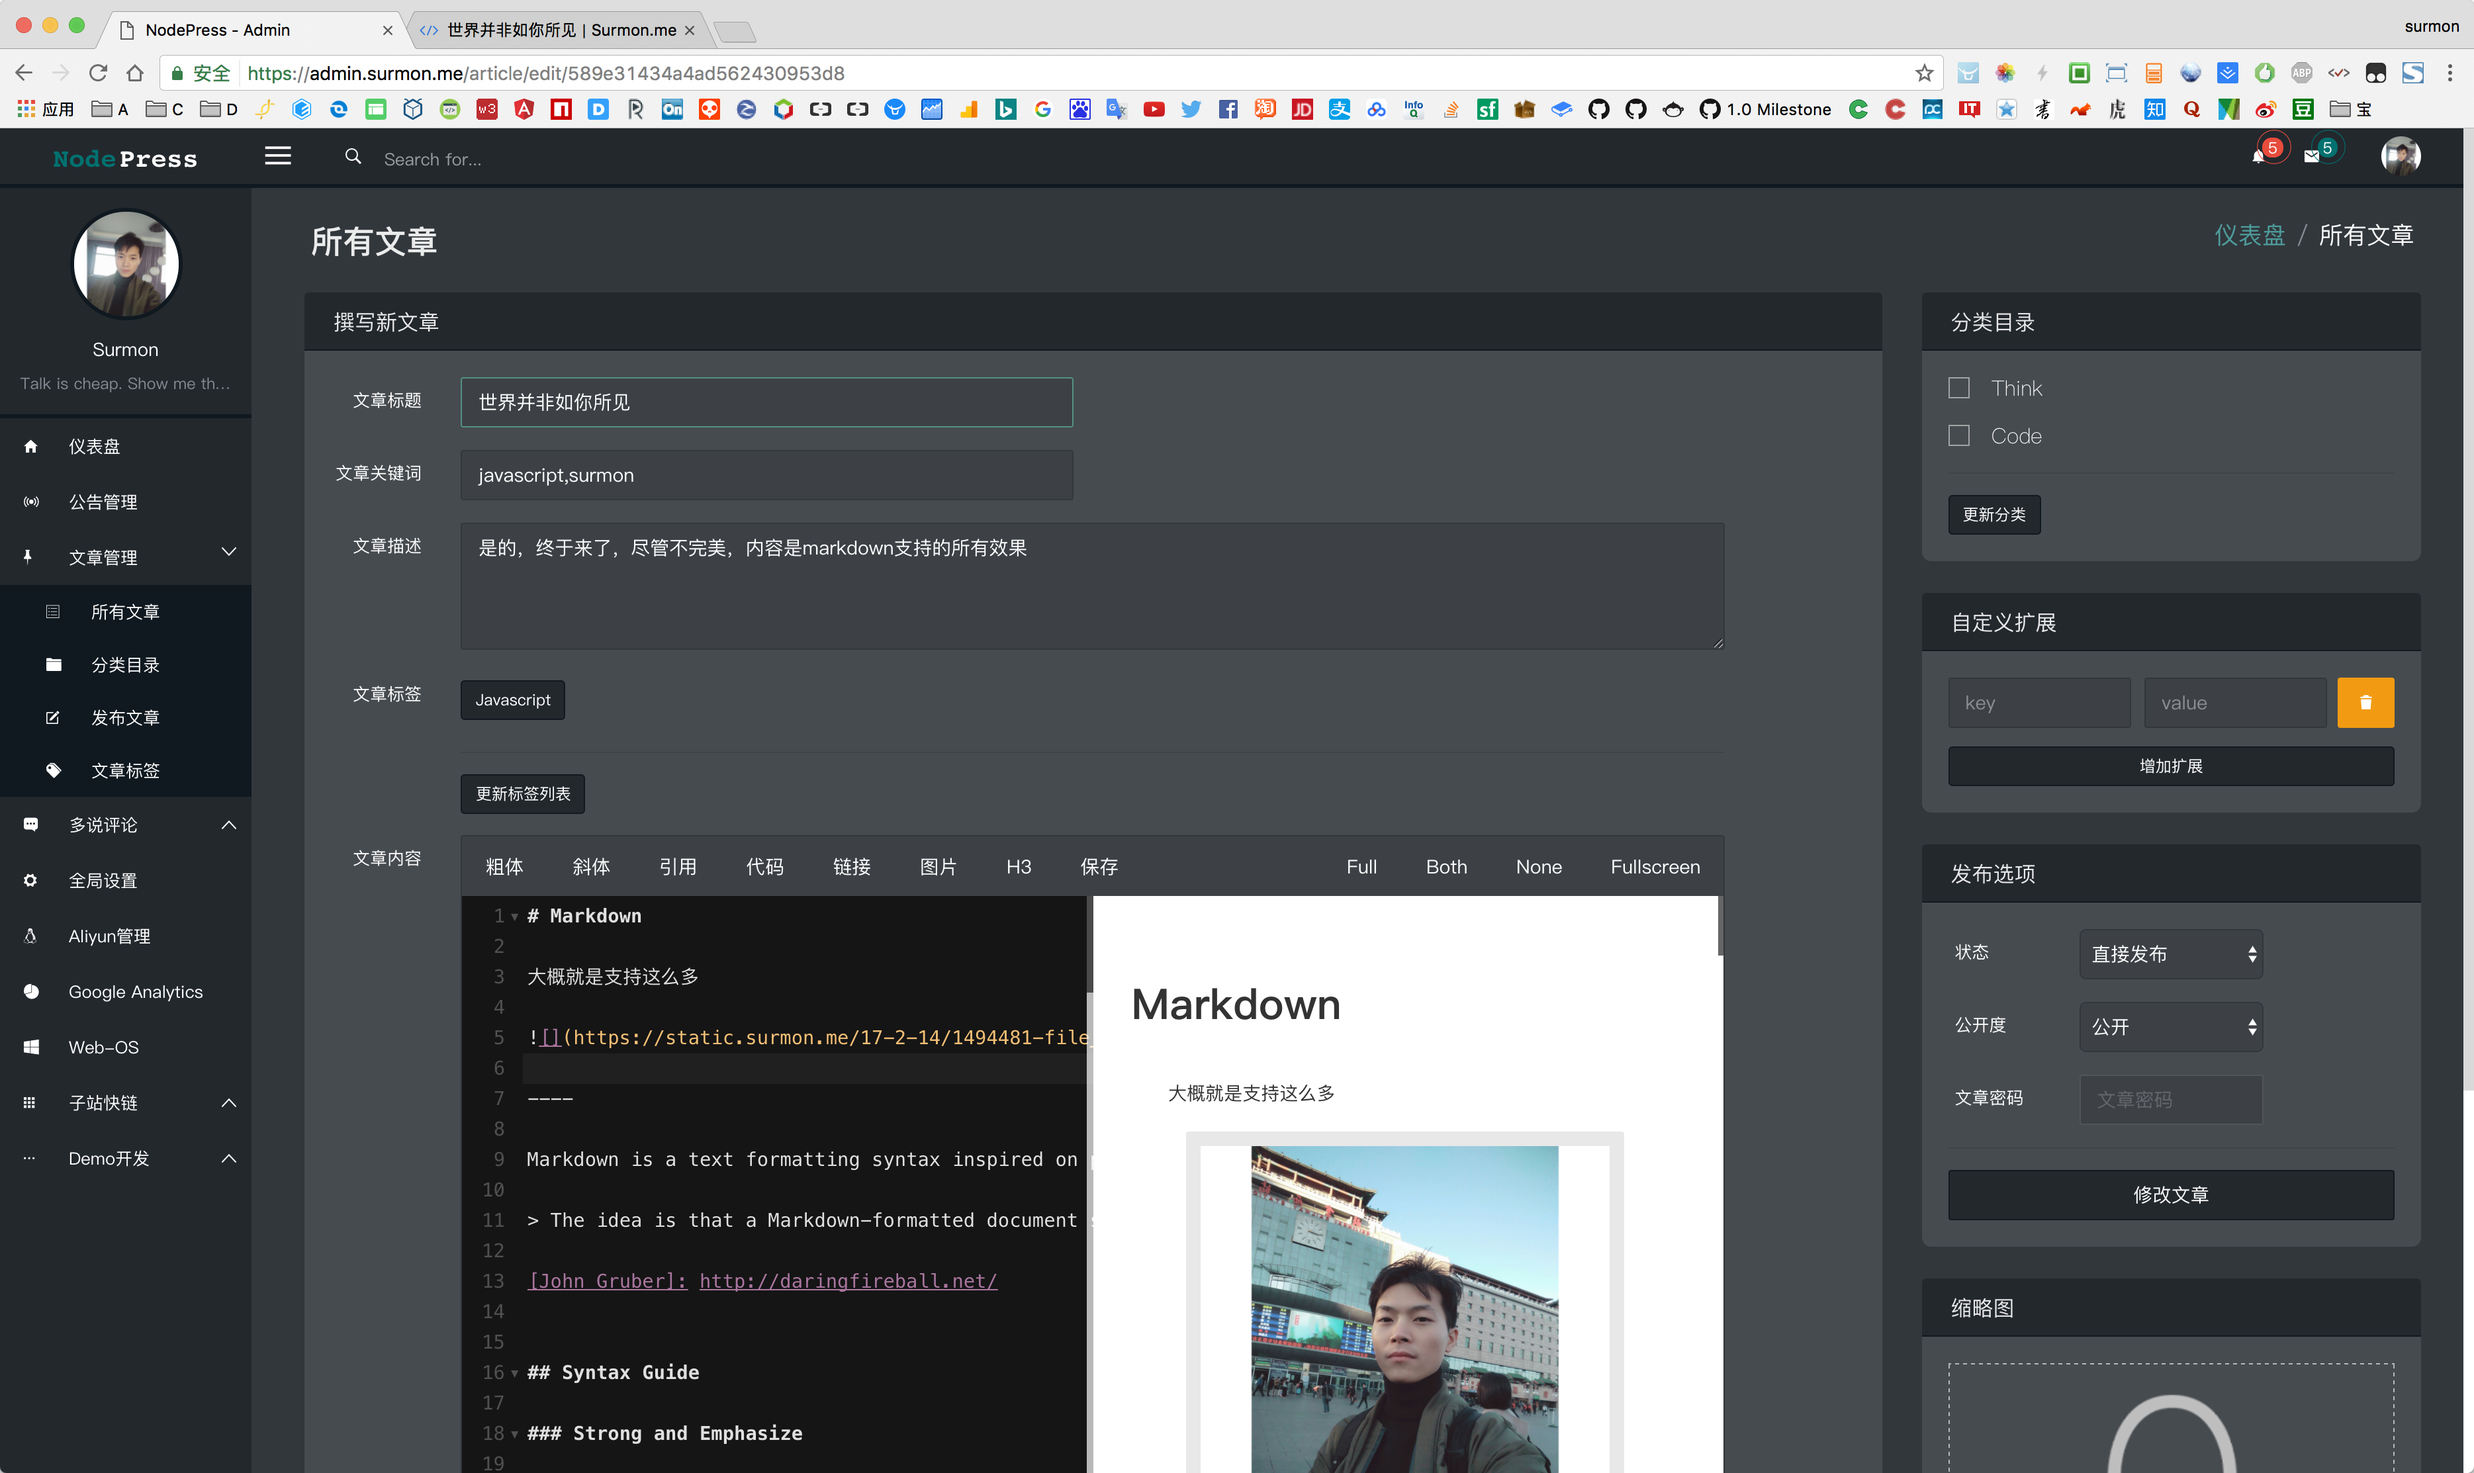
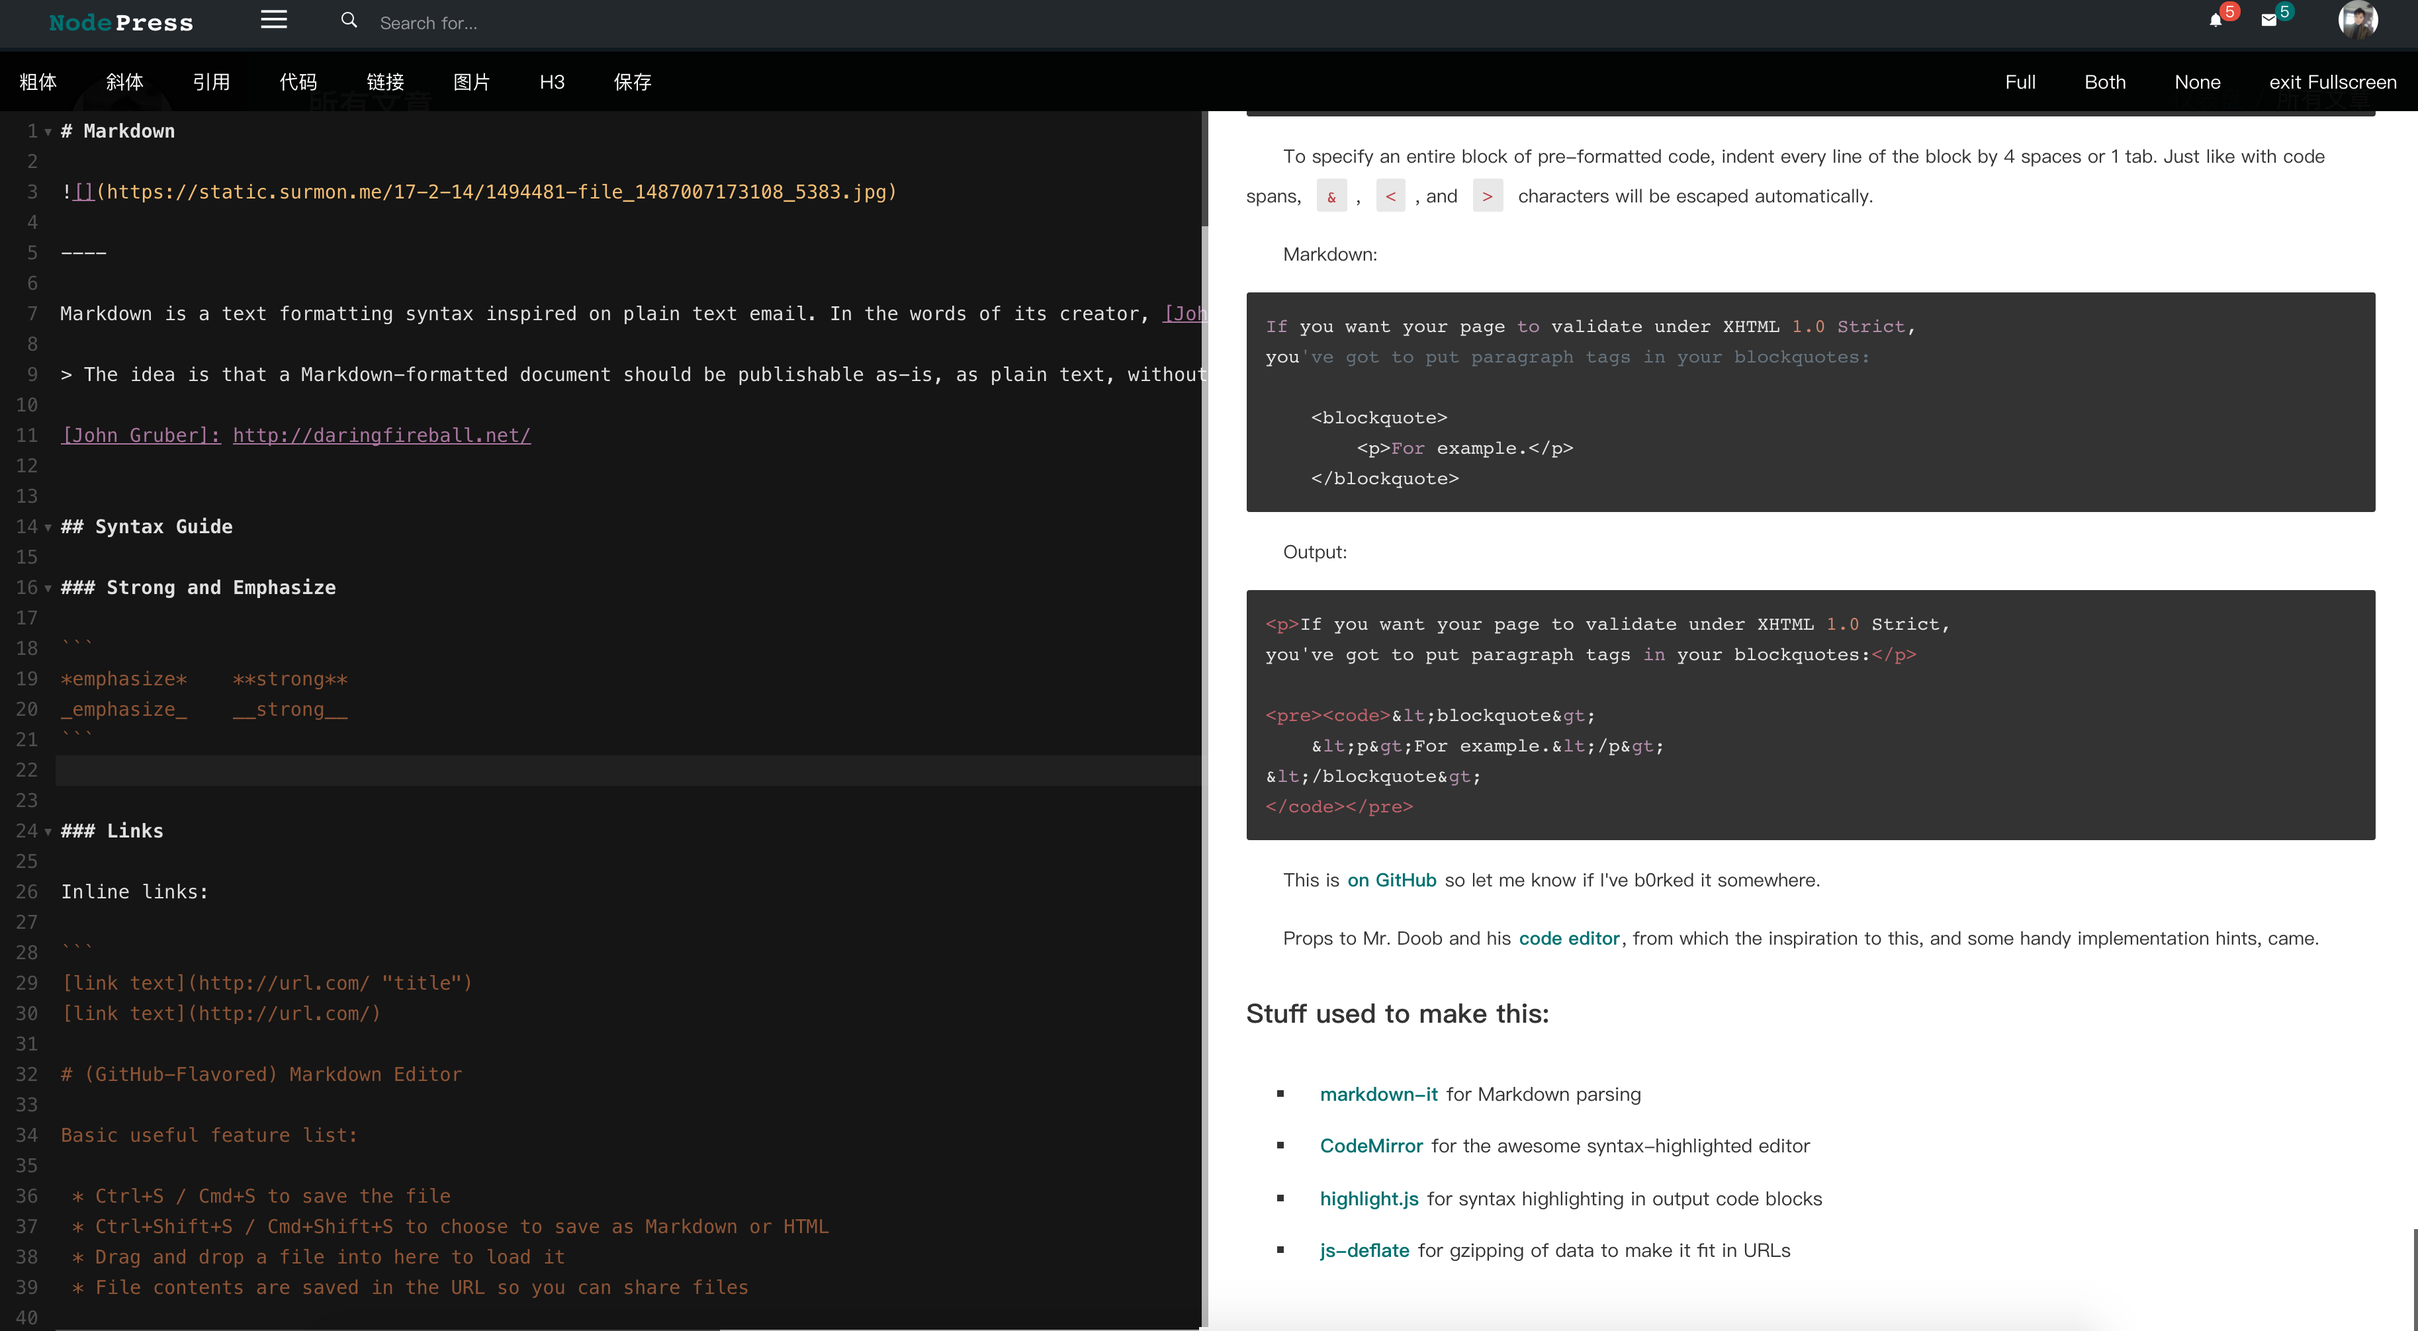
pic

diff --git a/README.md b/README.md
@@ -8,19 +8,23 @@ If you want to run the applaction, you need install the [nodepress](https://gith
 
 标签管理
 
-![](https://static.surmon.me/17-2-17/37280683-file_1487275342161_2d93.png)
+![](https://raw.githubusercontent.com/surmon-china/angular-admin/master/screenshot/tag-list.png)
 
 发布文章
 
-![发布文章][1]
+![发布文章](https://raw.githubusercontent.com/surmon-china/angular-admin/master/screenshot/submit-article.png)
 
 全局设置
 
-![](https://static.surmon.me/17-2-17/4168864-file_1487275360136_13981.png)
+![](https://raw.githubusercontent.com/surmon-china/angular-admin/master/screenshot/setting.png)
 
 文章列表
 
-![](https://static.surmon.me/17-2-17/4168864-file_1487275360136_13981.png)
+![](https://raw.githubusercontent.com/surmon-china/angular-admin/master/screenshot/article-list.png)
+
+markdown编辑器
+
+![](https://raw.githubusercontent.com/surmon-china/angular-admin/master/screenshot/markdown.png)
 
 # Todos && Issues 更新维护记录
 
@@ -208,7 +212,6 @@ angular-admin/
 ```
 
 
-  [1]: https://static.surmon.me/17-2-17/51159403-file_1487270589249_b3b9.png
   [2]: https://github.com/auth0/angular2-jwt
   [3]: https://github.com/surmon-china/angular-admin/blob/master/src/app/theme/components/baMarkdownEditor/markdownEditor.component.ts
   [4]: https://github.com/auth0/angular2-jwt
